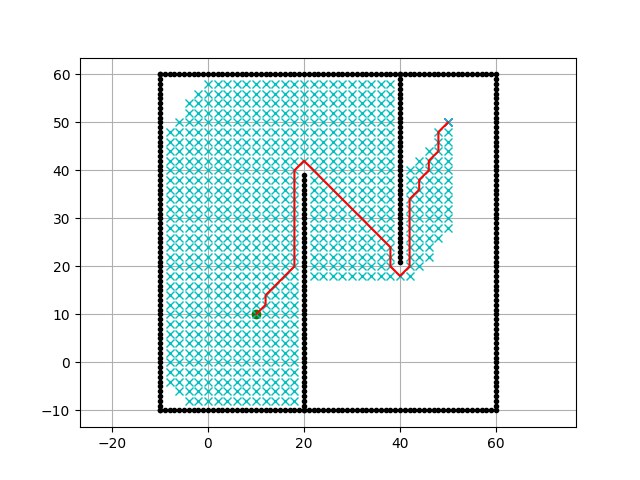
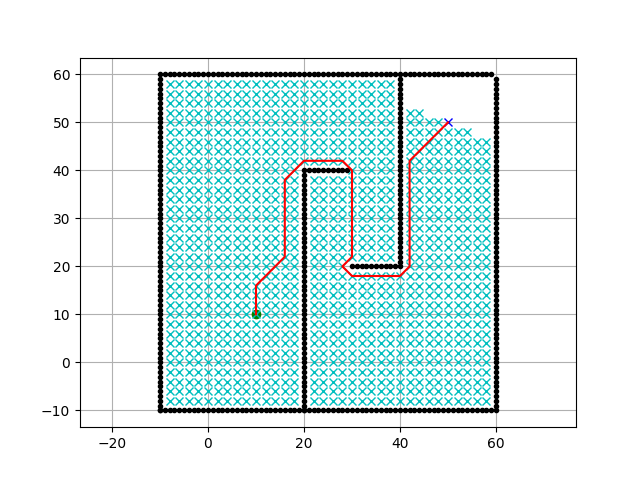
Implemented AStar

diff --git a/main.py b/main.py
@@ -24,7 +24,7 @@ class AStar:
     def calculate_heuristic(node1: Node, node2: Node):
         return math.sqrt((node1.x - node2.x)**2 + (node1.y - node2.y)**2) 
 
-    def get_neighbours(self, node: Node) -> List[Node]:
+    def get_neighbours(self, node: Node, goal: Node) -> List[Node]:
         """
             Get all the neighbours of a node.
             input:
@@ -37,11 +37,14 @@ class AStar:
             for j in range(node.y - 1, node.y + 2):
                 if i == node.x and j == node.y:
                     continue
-                if i < 0 or i >= self.map.grid_x or j < 0 or j >= self.map.grid_y:
+                if i <= 0 or i >= self.map.grid_x or j <= 0 or j >= self.map.grid_y:
                     continue
                 if self.map.obstacles[i, j] == 1:
                     continue
-                neighbours.append(Node(i, j, node.g + 1, node))
+                add = math.sqrt(2)
+                if i == node.x or j == node.y:
+                    add = 1
+                neighbours.append(Node(i, j, node.g + add, node, heuristic=self.calculate_heuristic(node, goal)))
         return neighbours
     
     def reconstruct_path(self, node: Node):
@@ -57,7 +60,7 @@ class AStar:
         current = node
         while current is not None:
             rx.append(self.convert_to_graph_coord(current.x, self.map.min_x))
-            ry.append(self.convert_to_grid_coord(current.y, self.map.min_y))
+            ry.append(self.convert_to_graph_coord(current.y, self.map.min_y))
             current = current.parent
         return rx[::-1], ry[::-1]
 
@@ -83,8 +86,9 @@ class AStar:
         open_set[hash(start_node)] = start_node
 
         while len(open_set) > 0:
-            current: Node = min(open_set.values(), key=lambda x:x.f)
+            current: Node = min(open_set.values(), key=lambda x:x.g)
             if current.x == goal_node.x and current.y == goal_node.y:
+                print(current.x, current.y)
                 rx, ry = self.reconstruct_path(current)
                 return rx, ry
             
@@ -102,7 +106,7 @@ class AStar:
             open_set.pop(hash(current))
             closed_set[hash(current)] = current
 
-            for node in self.get_neighbours(current):
+            for node in self.get_neighbours(current, goal_node):
                 if hash(node) in closed_set:
                     continue
                 if hash(node) not in open_set:
@@ -113,7 +117,7 @@ class AStar:
                         open_set[hash(node)].parent = current
 
 def main():
-    print(__file__ + " start!!")
+    print("Planning...")
 
     # start and goal position
     sx = 10.0  # [m]
@@ -122,14 +126,17 @@ def main():
     gy = 50.0  # [m]
     resolution = 2.0  # [m]
 
-    map = Map((sx, sy), (gx, gy), (-10, -10), (60, 60), resolution)
+    map = Map((sx, sy), (gx, gy), (-10, -10), (61, 61), resolution)
 
     # set obstacle positions
     map.addObstacleX((-10, 60), -10)
     map.addObstacleY(60, (-10, 60))
     map.addObstacleX((-10, 60), 60)
-    map.addObstacleY(-10, (-10, -60))
+    map.addObstacleY(-10, (-10, 60))
     map.addObstacleY(20, (-10, 40))
+    map.addObstacleY(40, (21, 60))
+    map.addObstacleX((30, 41), 20)
+    map.addObstacleX((20, 30), 40)
 
     # show graph
 
@@ -142,7 +149,6 @@ def main():
 
     a_star = AStar(map)
     rx, ry = a_star.plan(sx, sy, gx, gy)
-
     if show_animation:  # pragma: no cover
         plt.plot(rx, ry, "-r")
         plt.pause(0.001)

diff --git a/classes.py b/classes.py
@@ -19,7 +19,7 @@ class Map:
         self.resolution = resolution 
         self.grid_y = self.convert_to_grid_coord(self.max_y, self.min_y) # in grid coordinates
         self.grid_x = self.convert_to_grid_coord(self.max_x, self.min_x) # in grid coordinates
-        self.obstacles = np.zeros((self.grid_x, self.grid_y)) # in grid coordinates
+        self.obstacles = np.zeros((self.grid_x+1, self.grid_y+1)) # in grid coordinates
         self.obstacle_dims = self.obstacles.shape # in grid coordinates
         self.ox = []
         self.oy = []
@@ -33,7 +33,7 @@ class Map:
             start: a tuple of (x, y)
             end: a tuple of (x, y)
         """
-        self.obstacles[self.convert_to_grid_coord(xt[0], self.min_x):self.convert_to_grid_coord(xt[1], self.min_x), self.convert_to_grid_coord(y, self.min_y)-1] = 1
+        self.obstacles[self.convert_to_grid_coord(xt[0], self.min_x):self.convert_to_grid_coord(xt[1], self.min_x), self.convert_to_grid_coord(y, self.min_y)] = 1
         self.obstacle_dims = self.obstacles.shape
         for i in range(xt[0], xt[1]):
             self.ox.append(i)
@@ -46,14 +46,14 @@ class Map:
             start: a tuple of (x, y)
             end: a tuple of (x, y)
         """
-        self.obstacles[self.convert_to_grid_coord(x, self.min_x)-1, self.convert_to_grid_coord(yt[0], self.min_y):self.convert_to_grid_coord(yt[1], self.min_y)] = 1
+        self.obstacles[self.convert_to_grid_coord(x, self.min_x), self.convert_to_grid_coord(yt[0], self.min_y):self.convert_to_grid_coord(yt[1], self.min_y)] = 1
         self.obstacle_dims = self.obstacles.shape
         for i in range(yt[0], yt[1]):
             self.ox.append(x)
             self.oy.append(i)
 
 class Node:
-    def __init__(self, x, y, cost, parent):
+    def __init__(self, x, y, cost, parent, heuristic=0):
         """
             Initialize a node object.
             x: x coordinate
@@ -66,7 +66,7 @@ class Node:
         self.loc = (x, y)
         self.parent = parent
         self.g = cost # g(n) = cost to reach this node
-        self.h = 0 # h(n) = heuristic cost to reach the goal
+        self.h = heuristic # h(n) = heuristic cost to reach the goal
         self.f = self.g + self.h # f(n) = g(n) + h(n)
     
     def update(self, g, h):
